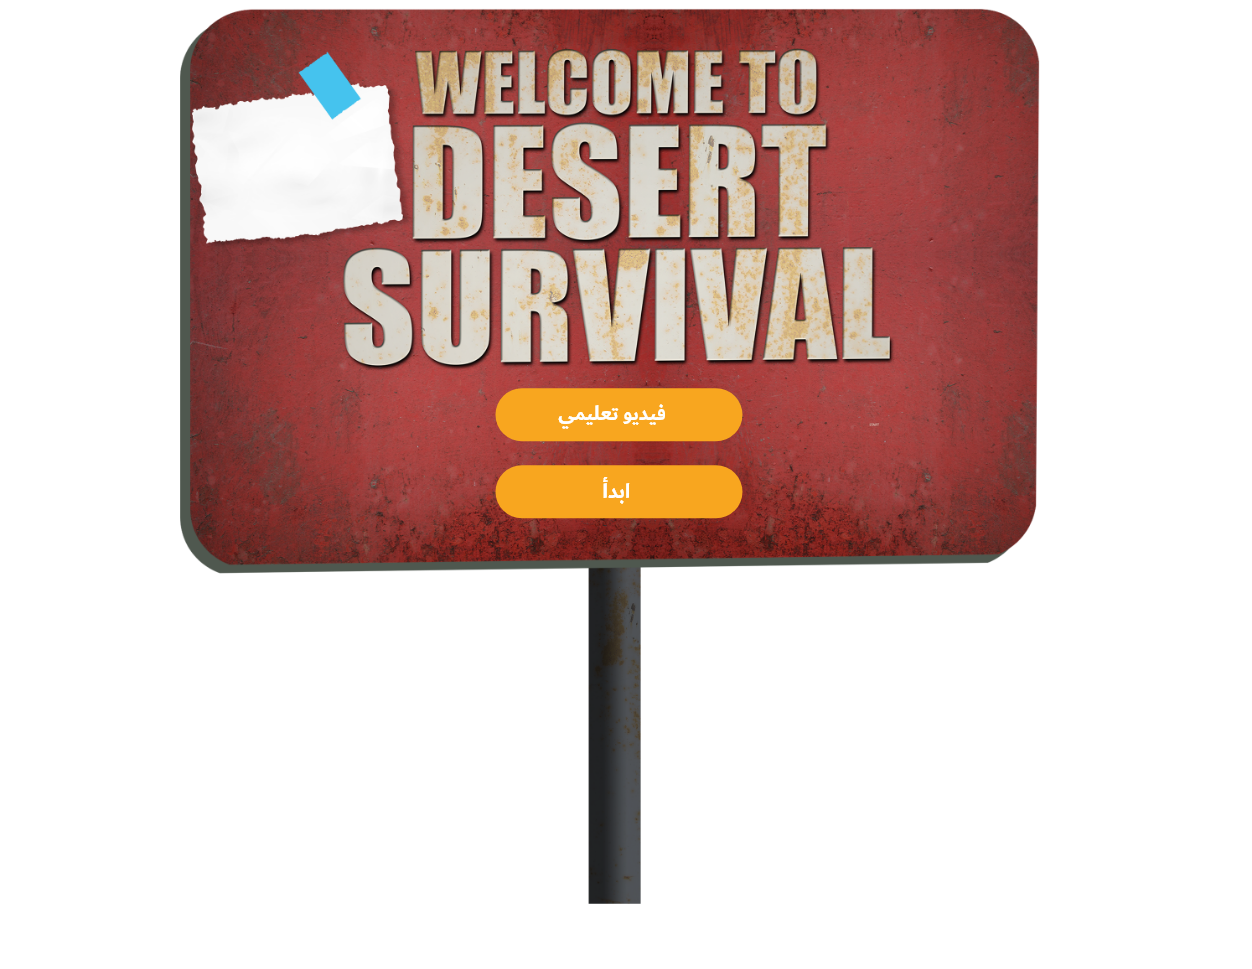
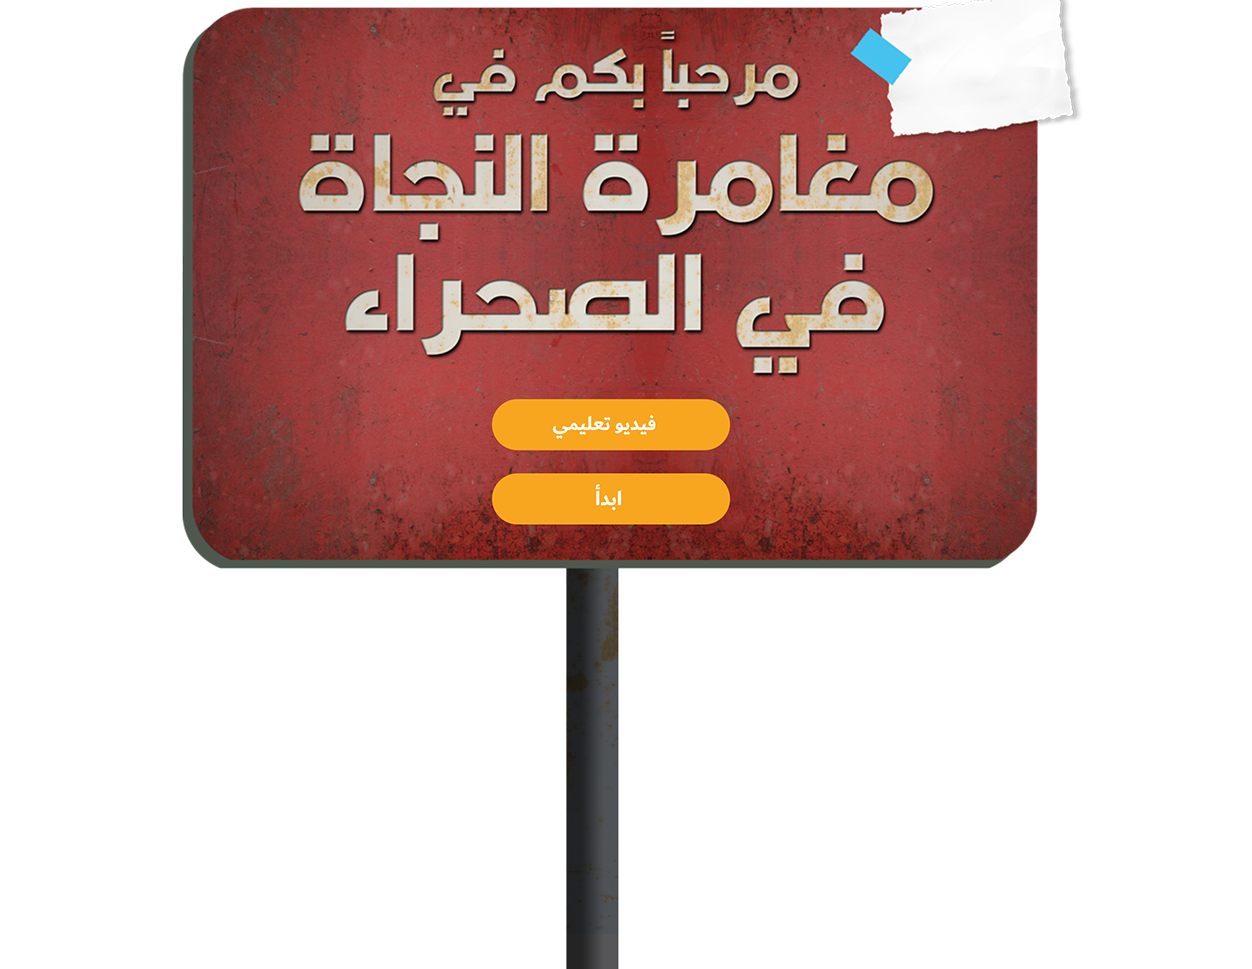
added new dashboard page

Changed region(s): [[0.1246, 0.0, 0.8722, 1.0], [0.8099, 0.5263, 0.8411, 0.5573]]

diff --git a/client/src/App-ar.css b/client/src/App-ar.css
@@ -1904,22 +1904,19 @@ h3 {
     height: auto;
     margin-top: -100px;
     margin-top: 0;
-    width: 949px;
-    left: 92px;
+    left: 115px;
     top: 160px;
     position: absolute;
   }
   .lead1-ar {
-    /*left: 15.2vw;*/
-    /*top: 14vh;*/
     font-size: 24px;
-    left: 130px;
-    top: 130px;
+    left: 362px;
+    top: 101px;
   }
   .button-1 {
     position: absolute;
-    top: 461px;
-    left: 469px;
+    top: 430px;
+    left: 440px;
     /* transform: translate(-50%, -50%); */
     transform: none;
     z-index: 2;
@@ -1929,8 +1926,8 @@ h3 {
   }
   .button-2 {
     position: absolute;
-    top: 519px;
-    left: 470px;
+    top: 478px;
+    left: 440px;
     transform: none;
     z-index: 2;
     width: 184px;
@@ -2057,11 +2054,9 @@ h3 {
     position: absolute;
   }
   .lead1-ar {
-    /*left: 15.2vw;*/
-    /*top: 14vh;*/
     font-size: 22px;
-    left: 55px;
-    top: 92px;
+    left: 300px;
+    top: 66px;
   }
   .button-1 {
     position: absolute;
@@ -2122,19 +2117,19 @@ h3 {
     /* margin-top: -100px; */
     margin-top: 0;
     width: 880px;
-    left: 17px;
+    left: 130px;
     top: 169px;
     position: absolute;
   }
   .lead1-ar {
     font-size: 26px;
-    left: 81px;
-    top: 127px;
+    left: 378px;
+    top: 104px;
   }
   .button-1 {
     position: absolute;
     top: 447px;
-    left: 359px;
+    left: 466px;
     transform: none;
     z-index: 2;
     width: 185px;
@@ -2144,7 +2139,7 @@ h3 {
   .button-2 {
     position: absolute;
     top: 500px;
-    left: 360px;
+    left: 470px;
     transform: none;
     z-index: 2;
     width: 184px;

diff --git a/client/src/components/dashboard/Dashboard2-ar.js b/client/src/components/dashboard/Dashboard2-ar.js
@@ -49,7 +49,7 @@ const Dashboard2ar = ({
         </div>
       </div>
       <div className="dashblock">
-        <div className="bg-text1"></div>
+        <div className="bg-text1-ar"></div>
         <img
           className="bg-text1"
           src={bg}
